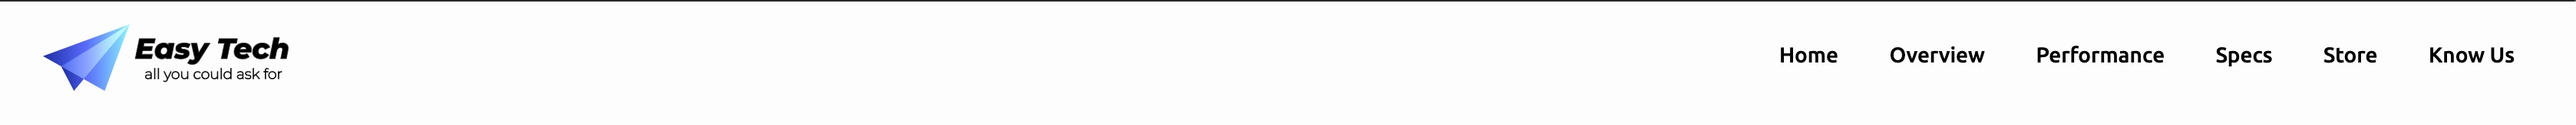
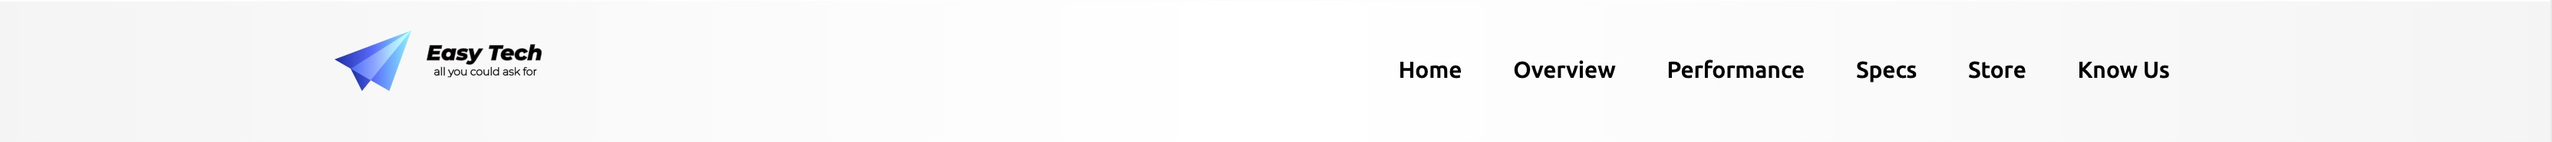
NAV: Changed the navReference.jpg and as result changed the width of the storeTitle to 65%

Changed region(s): [[0.0, 0.2134, 0.2168, 0.7012], [0.5265, 0.3659, 0.991, 0.5488], [0.0, 0.0, 1.0, 0.0305]]

diff --git a/store.html b/store.html
@@ -17,7 +17,28 @@
 </head>
 
 <body>
+
+
+    <!-- ***************************** INSERT NAV CODE BELLOW ***************************** -->
+
     <img id="navReference" src="/images/navReference.jpg" alt="toBeReplaced">
+
+
+
+
+
+
+
+
+
+
+
+
+
+
+
+
+    <!-- ***************************** INSERT NAV CODE ABOVE ***************************** -->
 
 
     <h1 class="storeTitle">Store
@@ -32,6 +53,10 @@
         <br>
         networked AI core, factory controller, and much more
     </h2>
+
+
+
+
 
 
     <section class="contentBellowHead">
@@ -132,19 +157,27 @@
 
 
 
-
-
-
-
-
-
-
-
-
-
-
+    <!-- ***************************** INSERT FOOTER CODE BELLOW ***************************** -->
 
     <img id="footerReference" src="/images/navReference.jpg" alt="toBeReplaced">
 
+
+
+
+
+
+
+
+
+
+
+
+    <!-- ***************************** INSERT FOOTER CODE ABOVE ***************************** -->
+
+
+
+
     <script src="store.js"></script>
+
+
 </body>

diff --git a/store.css b/store.css
@@ -9,7 +9,12 @@ body {
 
 
 
-/* *********************************************  NAV // TEMPORARY // *********************************************  */
+
+
+
+
+
+/* ****************************************  INSET NAV CODE BELLOW ****************************************  */
 #navReference,
 #footerReference {
     width: 100%;
@@ -20,11 +25,32 @@ body {
 
 
 
+
+
+
+/* ****************************************  INSET NAV CODE ABOVE ****************************************  */
+
+
+
+
+
+
+
+
+
+
+
+
+
+
+
+
+
 /* ********************************************* Page Header *********************************************  */
 .storeTitle {
     font-family: 'Mukta', sans-serif;
-    font-size: 25px;
-    width: 80%;
+    font-size: 23px;
+    width: 65%;
     text-align: left;
     margin: 60px auto 60px auto;
     text-shadow: 1px 1px 1px #7b7b7b;
